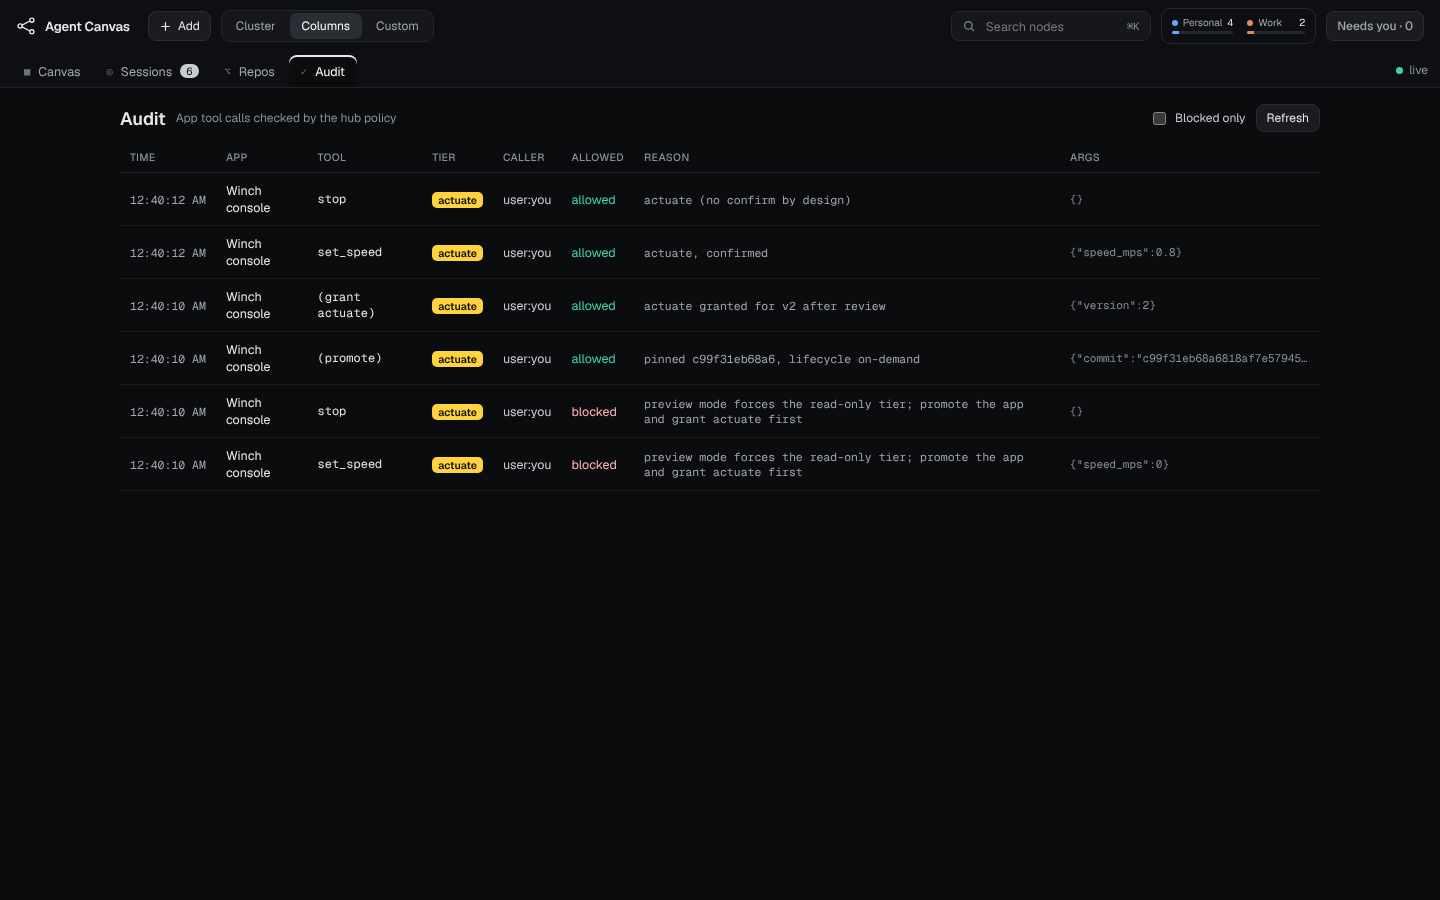
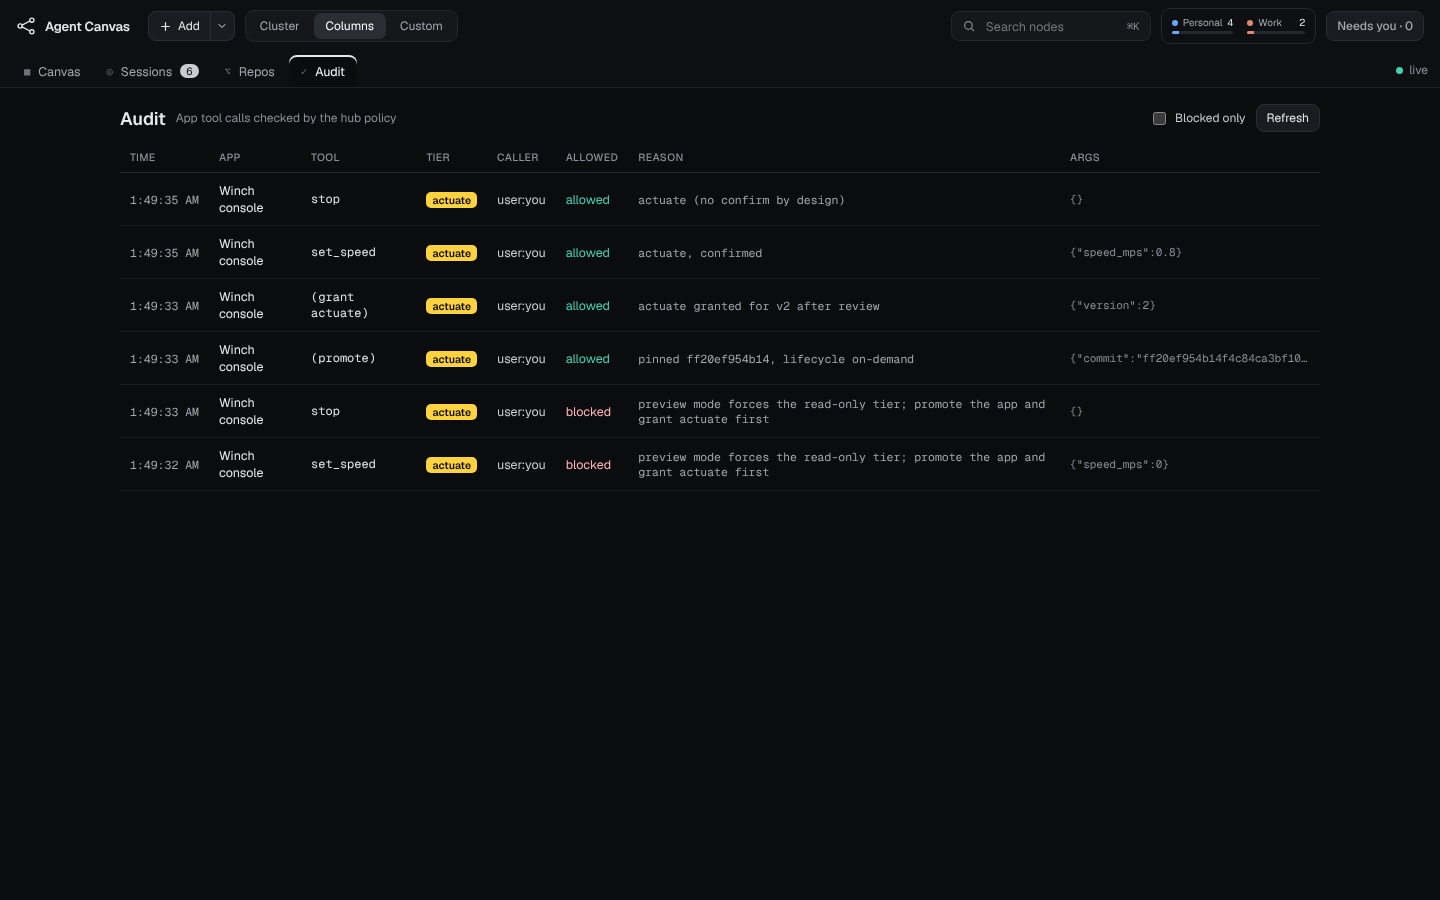
v2 smoke 25/25 against stubs; reset drops stale local branches; file pin blob fix; docs PROGRESS v2
Claude-Session: https://claude.ai/code/session_01Nob9Xbf9q1oojKGnFMqjyo

diff --git a/hub/src/files.ts b/hub/src/files.ts
@@ -91,7 +91,7 @@ export class FileService {
     if (src.kind === 'checkout') {
       const co = this.co(src.checkoutId);
       const p = q(co.path);
-      const r = await this.c.hosts.execOk(co.host_id, `cd ${p} && test -f ${q(path)} || { echo missing; exit 0; }; st=$(git status --porcelain -- ${q(path)}); if [ -n "$st" ]; then echo "worktree $(git hash-object ${q(path)})"; else git log -1 --format='%H%x1f%s%x1f%ct' -- ${q(path)}; echo; git rev-parse HEAD:${q(path)} 2>/dev/null; fi`);
+      const r = await this.c.hosts.execOk(co.host_id, `cd ${p} && test -f ${q(path)} || { echo missing; exit 0; }; st=$(git status --porcelain -- ${q(path)}); if [ -n "$st" ]; then echo "worktree $(git hash-object ${q(path)})"; else git log -1 --format='%H%x1f%s%x1f%ct' -- ${q(path)}; git rev-parse HEAD:${q(path)} 2>/dev/null; fi`);
       const lines = r.trim().split('\n');
       if (lines[0] === 'missing') throw new Error(`no such file ${path}`);
       if (lines[0].startsWith('worktree ')) return { sha: 'worktree', blob: lines[0].slice(9) };

diff --git a/docs/PROGRESS.md b/docs/PROGRESS.md
@@ -1,6 +1,6 @@
 # Progress: Agent Hub v1
 
-Status: **v1 is built and passes its smoke test against the stubs** (`node scripts/smoke.mjs` → 14/14). Unit tests: 38/38. A clean checkout runs `npm ci && npm run build && npm test` green. Nothing has run against the real `claude`/`codex` binaries yet; `docs/OPEN-QUESTIONS.md` lists what to verify first.
+Status: **v1 and v2 (GitHub + every design node type) are built and pass the smoke test against the stubs** (`node scripts/smoke.mjs` → 25/25). Unit tests: 45/45. A clean checkout runs `npm ci && npm run build && npm test` green. Nothing has run against the real `claude`/`codex` binaries yet; `docs/OPEN-QUESTIONS.md` lists what to verify first.
 
 ## What works (verified by the smoke test, stubs on two SSH "hosts")
 
@@ -28,6 +28,23 @@ Also verified manually or by unit tests:
 
 Screenshots: `docs/screenshots/` (desktop 1440×900, phone 390×844, repo panel, cloud, app preview blocked, confirm dialog, audit) and `smoke-result.json`.
 
+## v2: GitHub and every node type (verified by the smoke test)
+
+| Area | Verified |
+|---|---|
+| GitHub via `gh` (stub) | A project node per repo shows the GH account, default branch, README, stats and folders. Branch nodes show PR #18 (draft, reviews) and CI (2/3 passing, 1 pending) from `gh api`, under the account that owns the repo. |
+| New branch | Created from the project node: a git worktree on mini-1, pushed to GitHub, then shown as a branch node. |
+| Pushed-branch scan | A Claude cloud session pushes `claude/build-a-status-dashboard…`. The scan finds it, links it to the session, and finds `apps/cloud-status` on it. |
+| Any file as a node | Quick open places nodes from a host checkout or a GitHub ref: image (decoded), markdown (rendered from GitHub), code, STL (three.js) and text. Nodes are pinned to the last commit that touched the path. After a commit the node shows "Newer version", and "Get latest" re-pins it. |
+| Note and to-dos | Create, edit, toggle; "dispatch" starts a Codex session with the to-do. |
+| Agent-created nodes | The stub agent writes a report and calls `request_review`, `suggest_followup` and `add_todo`. In the review node you tick the checklist, comment, and press Request changes; the decision and the comment arrive in the agent's chat. Launching the suggestion starts a session. |
+| Compute cluster | Machine nodes show live CPU, memory and load (plus a simulated GPU on mini-2), the agents on each host, and the devices attached. Device nodes come from config probes and serial/CAN discovery; a lock is assigned and released from the node. |
+| HIL | Run takes the plan's three device locks and streams 12 rows: 11 pass, T-07 fails. "Re-run failed" runs T-07 only, and the locks are released afterwards. |
+| Compute grant | An agent calls `request_compute`. `run_on_host` is refused until you press Approve on the grant node, then runs as `hostb`. |
+| Terminal | A real shell over SSH (tmux plus xterm.js): the typed `echo smoke-$((40+2)) $(whoami)` prints `smoke-42 hostb`. |
+
+Screenshots: `docs/screenshots/v2-*.png`.
+
 ## What remains
 
 **Gating against the real CLIs** (in order, from the architecture doc): see `docs/OPEN-QUESTIONS.md`. The riskiest items:
@@ -37,8 +54,8 @@ Screenshots: `docs/screenshots/` (desktop 1440×900, phone 390×844, repo panel,
 - delivery of cloud repo hooks, and which `session_id` they carry;
 - Codex daemon visibility in the ChatGPT desktop app.
 
-**Not built in v1:**
-- **GitHub API per account:** PR status, and repo scan of pushed branches for vendor-cloud apps. The indexer covers local checkouts only.
+**Not built:**
+- **GitHub actions:** creating or merging PRs, and issues (out of the requested v2 scope). The GitHub polling sends no ETags or conditional requests yet.
 - **Adopting sessions started outside the hub:**
   - listing Claude Desktop/CLI sessions from their transcripts on hosts;
   - "bring into hub" (`claude --resume <id> --remote-control`): the driver accepts a `resumeUuid`, but there is no UI;
@@ -50,6 +67,7 @@ Screenshots: `docs/screenshots/` (desktop 1440×900, phone 390×844, repo panel,
   - `runsOn` a host other than the one holding the files;
   - high-rate stream proxying.
 - **Usage meters:** the design's subscription-usage bars show session counts per account instead.
-- **Design features not carried over:** to-dos, docs/figures, terminals and the review queue. The hub's scope is sessions, repos and apps.
+- **Device locks:** they apply to hub-mediated actions only; the hub can't stop a process on the host from opening a device directly.
+- **Per-process GPU usage for grants:** a grant shows the host's total GPU memory used, not just the agent's processes.
 - **Hub administration UI:** hosts and accounts are added in `hub.config.json`, then the hub is restarted (see README).
 - **Push delivery to a real browser push service:** the subscription flow is wired in the PWA, but only a fake push endpoint was exercised in the VM.
